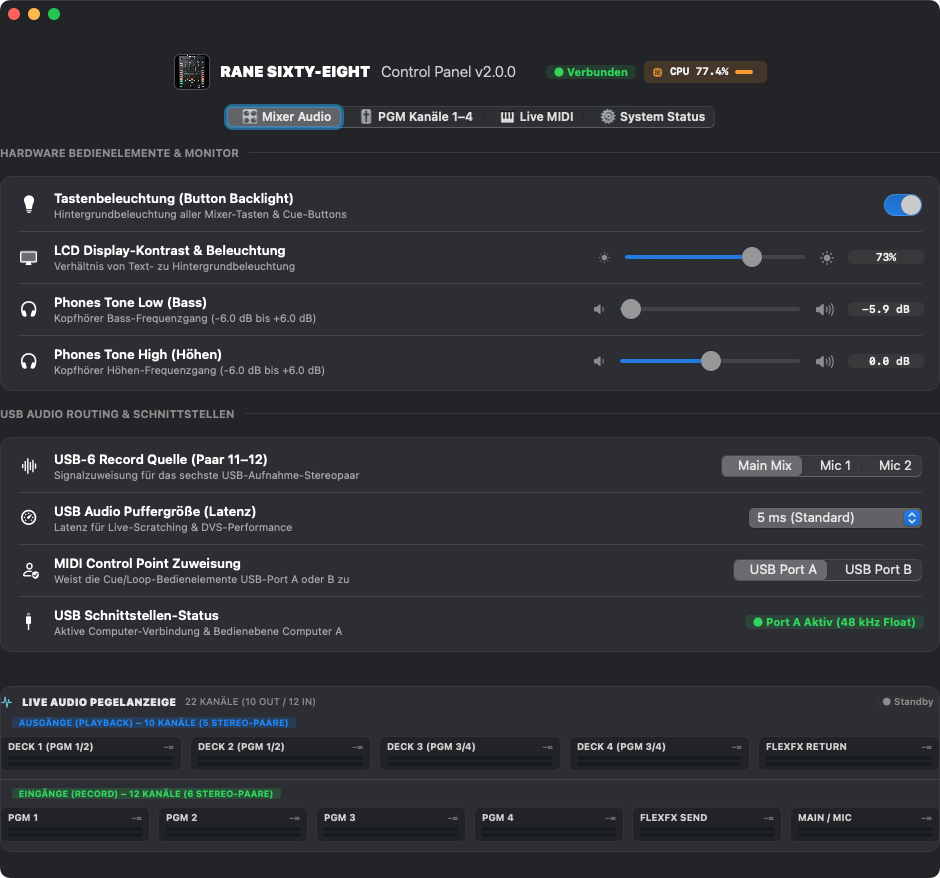
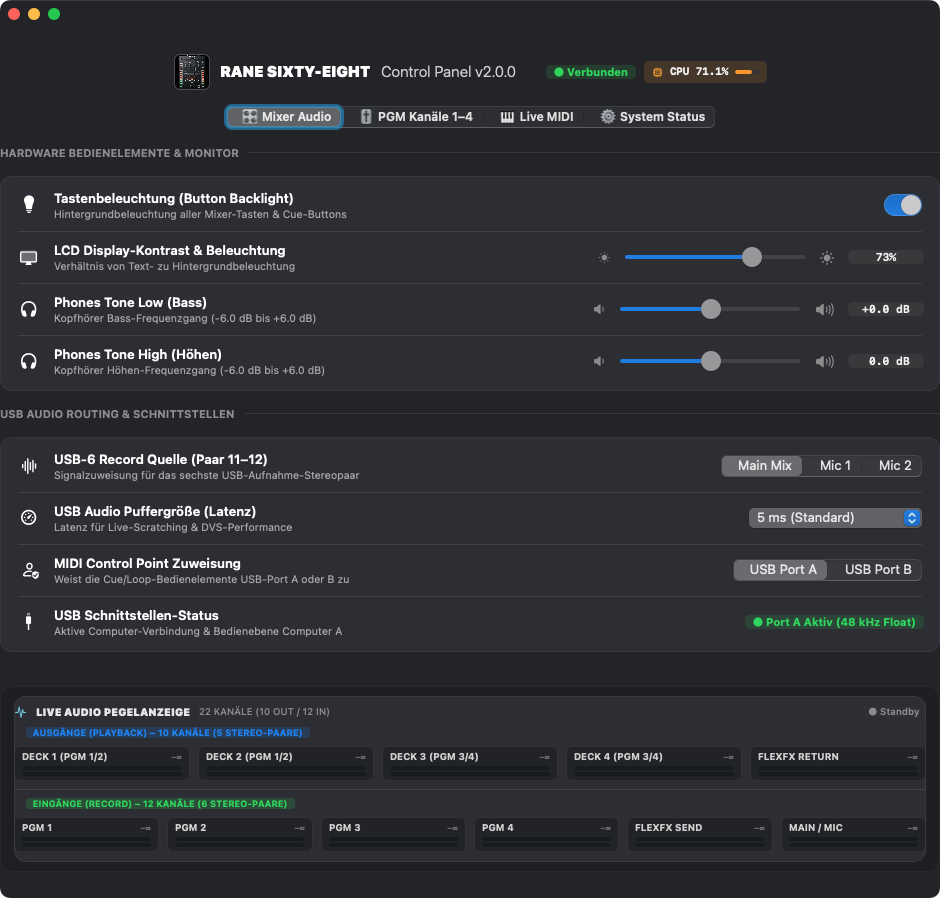
feat(ui): Wrap live VU meter in dark inset card and align margins with PGM 1-4 bounds

diff --git a/src/manager/Controller/MainWindowController.swift b/src/manager/Controller/MainWindowController.swift
@@ -387,11 +387,15 @@ class MainWindowController: NSWindowController, NSWindowDelegate {
             p.isHidden = true
         }
 
-        // 4. Grouped Horizontal Slim Audio VU-Meter Rack (waagerecht schmal darunter)
+        // 4. Grouped Horizontal Slim Audio VU-Meter Rack (eingebettet in dunklem Inset-Fenster mit 14pt Padding)
         ioMonitorBar = RaneIOMonitorBarView()
-        mainStack.addArrangedSubview(ioMonitorBar)
-        ioMonitorBar.leadingAnchor.constraint(equalTo: mainStack.leadingAnchor).isActive = true
-        ioMonitorBar.trailingAnchor.constraint(equalTo: mainStack.trailingAnchor).isActive = true
+        let meterInsetCard = ioMonitorBar.wrapInInsetCard(
+            cornerRadius: 12,
+            padding: NSEdgeInsets(top: 10, left: 14, bottom: 10, right: 14)
+        )
+        mainStack.addArrangedSubview(meterInsetCard)
+        meterInsetCard.leadingAnchor.constraint(equalTo: mainStack.leadingAnchor).isActive = true
+        meterInsetCard.trailingAnchor.constraint(equalTo: mainStack.trailingAnchor).isActive = true
 
         onTabChanged()
         setControlsEnabled(RaneMidiService.shared.isConnected)
@@ -424,11 +428,11 @@ class MainWindowController: NSWindowController, NSWindowDelegate {
 
     private func targetWindowHeight(for index: Int) -> CGFloat {
         switch index {
-        case 0: return 680   // Mixer Audio
-        case 1: return 650   // PGM Channels 1–4
-        case 2: return 665   // Live MIDI
-        case 3: return 660   // System Status
-        default: return 670
+        case 0: return 705   // Mixer Audio
+        case 1: return 675   // PGM Channels 1–4
+        case 2: return 685   // Live MIDI
+        case 3: return 685   // System Status
+        default: return 695
         }
     }
 
